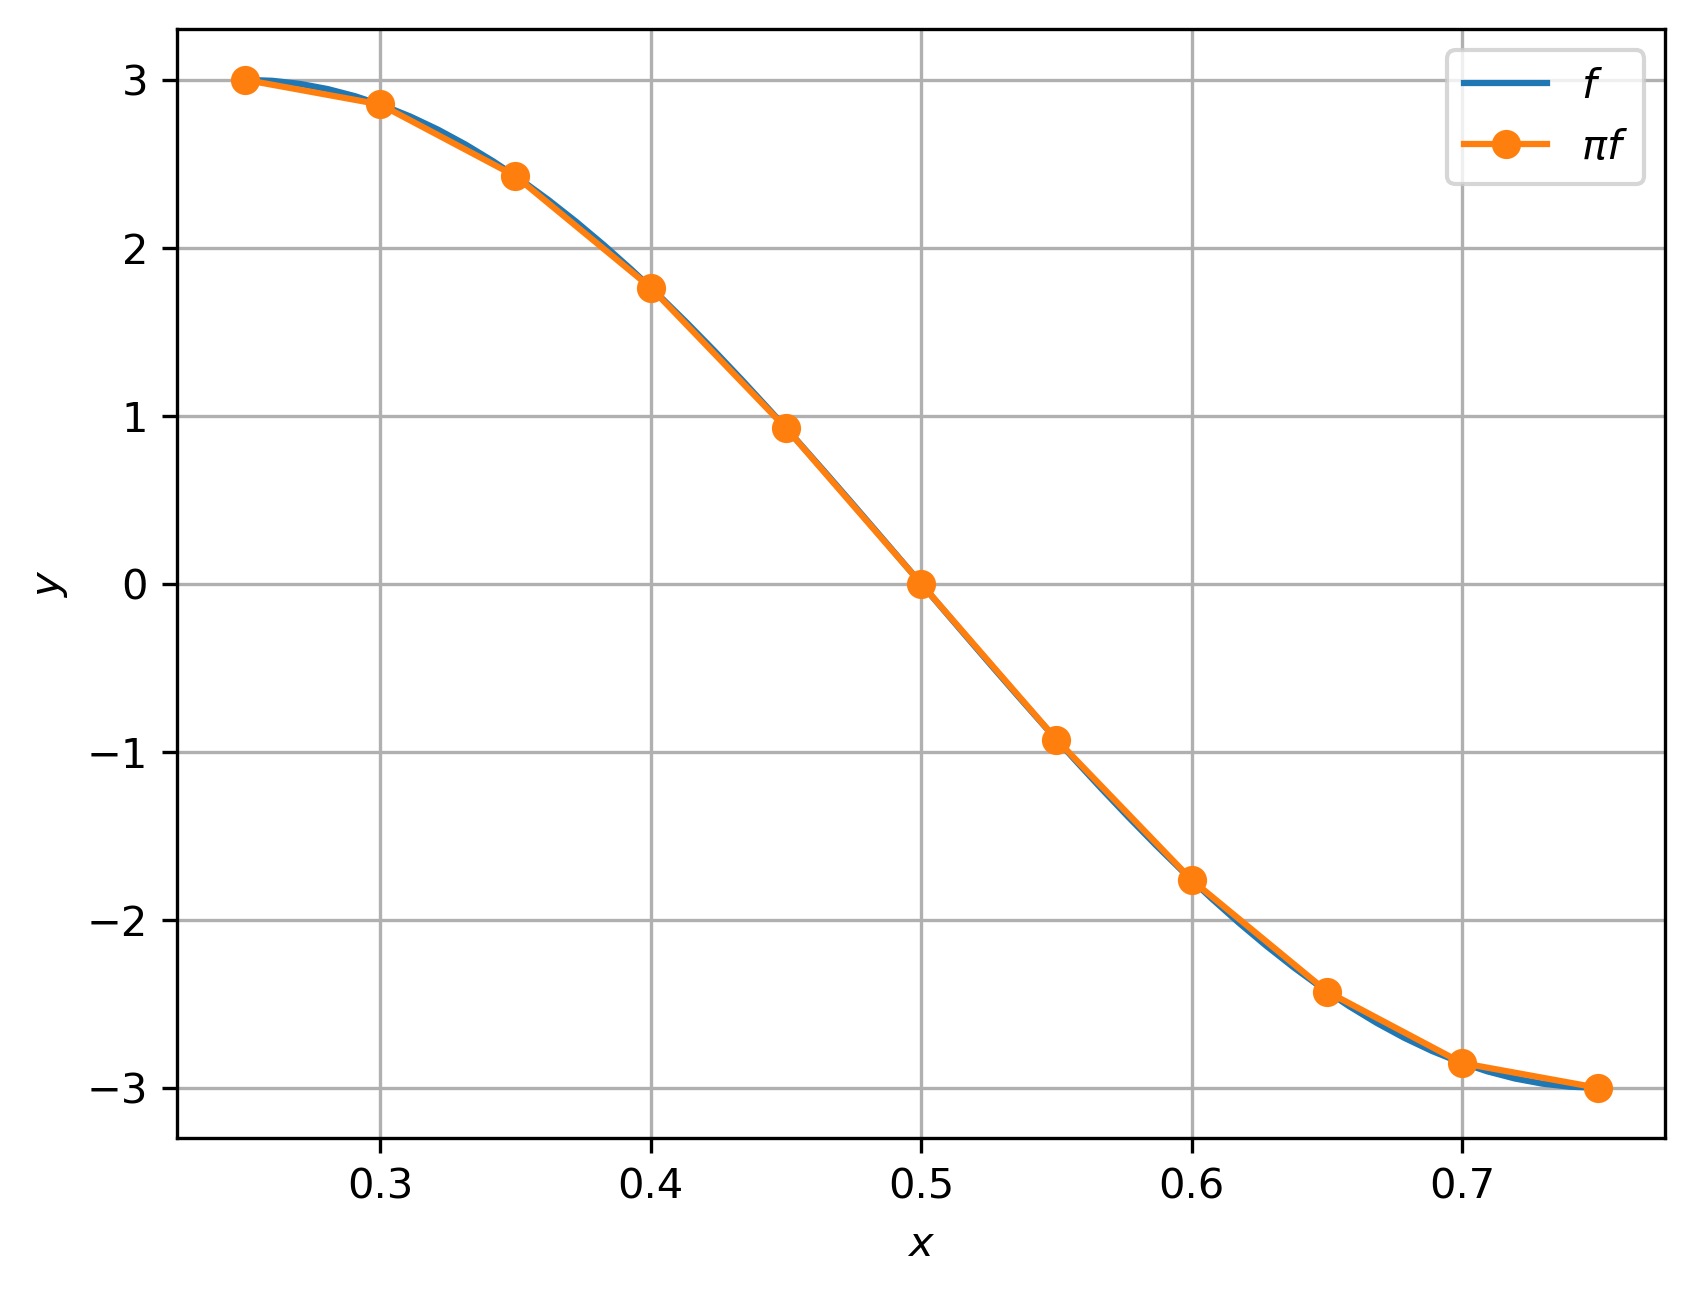
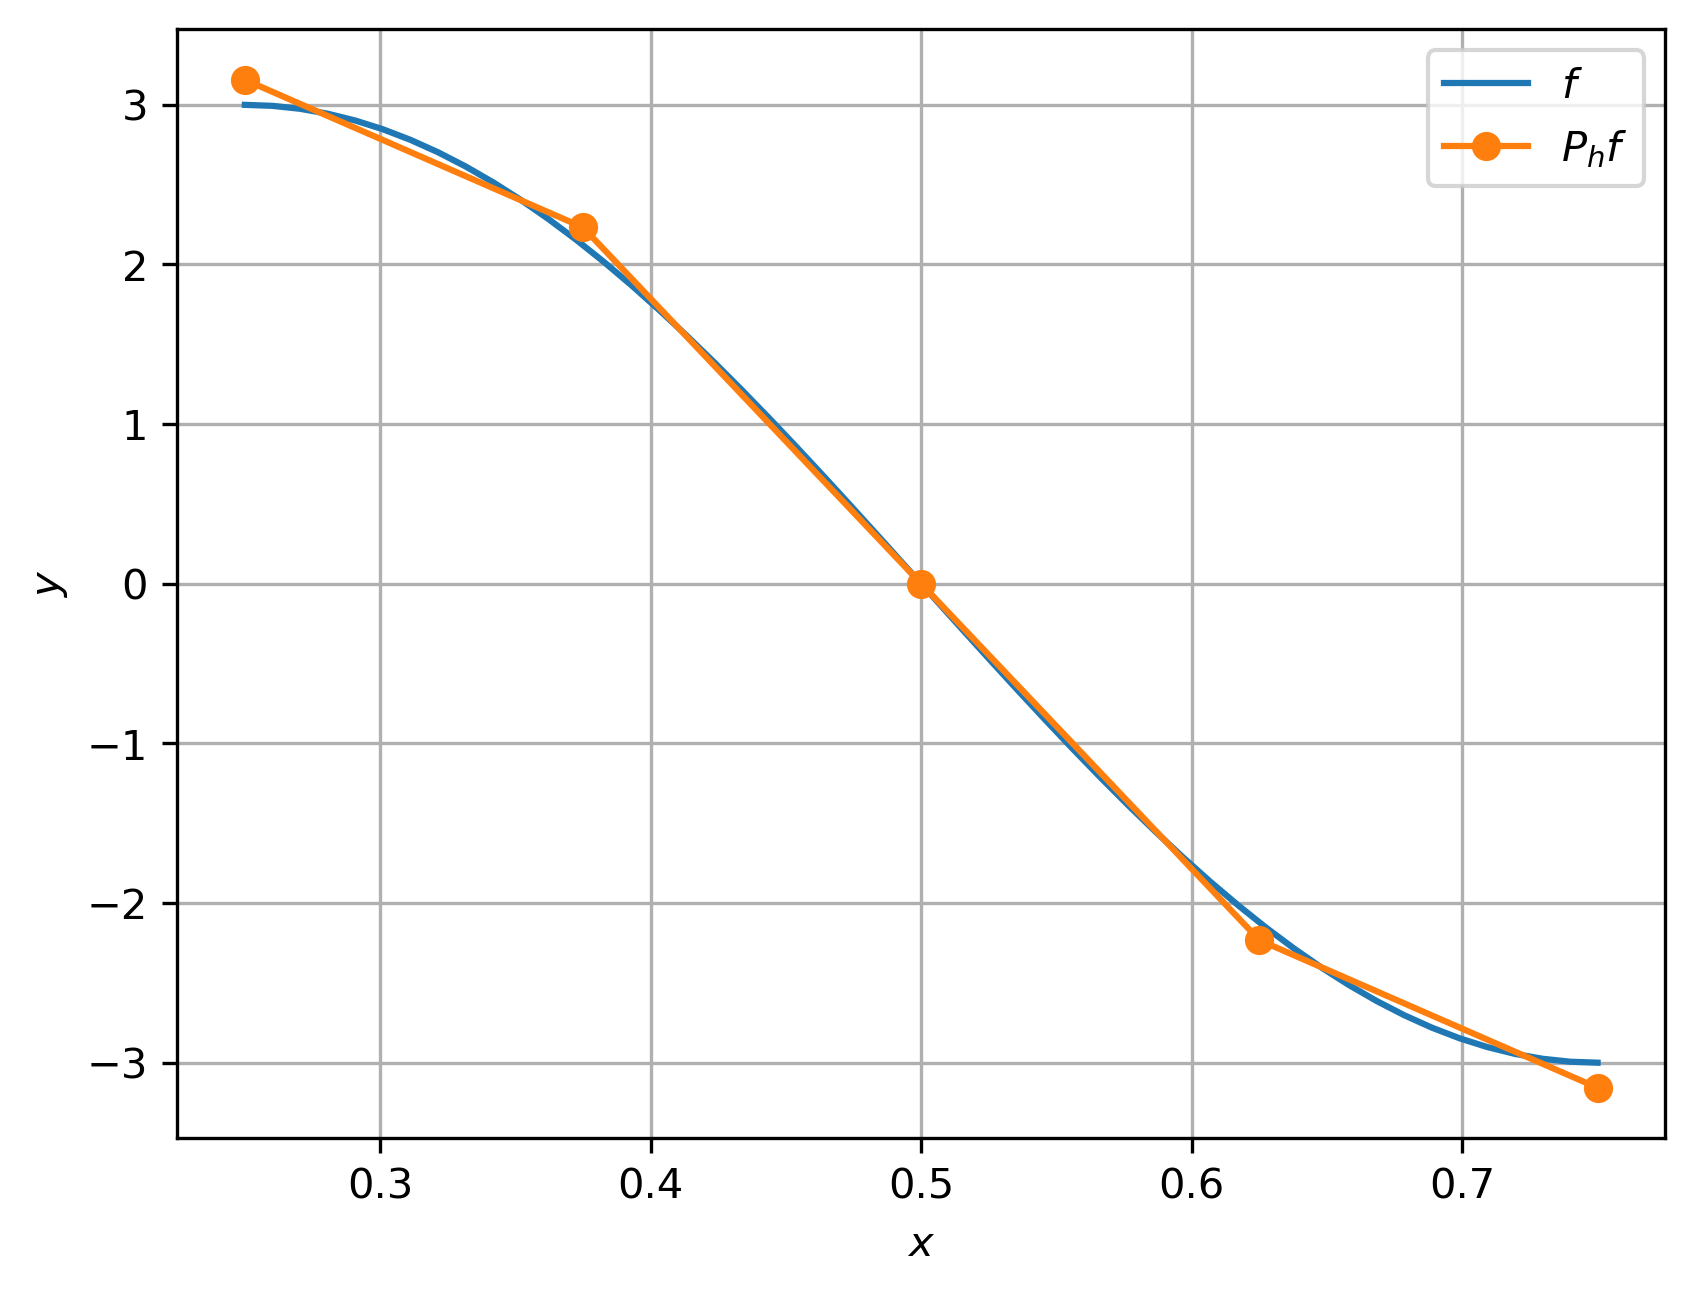
RNA: revisão e extensão do material sobre diferenciação automática

diff --git a/src/RedesNeuraisArtificiais/cap_mlp/cap_mlp.tex b/src/RedesNeuraisArtificiais/cap_mlp/cap_mlp.tex
@@ -770,15 +770,15 @@ d2ydx2 = torch.autograd.grad(
 \end{ex}
 
 
-Uma RNA é uma composição de funções definidas por parâmetros (pesos e \textit{biases}). O treinamento de uma RNA ocorre em duas etapas\footnote{Para mais detalhes, consulte a Subseção \ref{cap_mlp_sec_modelo:ssec:treinamento}.}:
+\subsection{Autograd MLP}
+
+\hl{Os conceitos de diferenciação automática (\emph{autograd}) são diretamente estendidos para redes do tipo Perceptron Multicamadas (MLP, do inglês, \textit{Multilayer Perceptron})}. Uma MLP é uma composição de funções definidas por parâmetros (pesos e \textit{biases}). Seu treinamento ocorre em duas etapas\footnote{Para mais detalhes, consulte a Subseção \ref{cap_mlp_sec_modelo:ssec:treinamento}.}:
 \begin{enumerate}[1.]
 \item \hl{\emph{Propagação (\textit{forward})}}: os dados de entrada são propagados para todas as funções da rede, produzindo a saída estimada.
 \item \hl{\emph{Retropropagação (\textit{backward})}}: a computação do gradiente do erro\footnote{Medida da diferença entre o valor estimado e o valor esperado.} em relação aos parâmetros da rede é realizado coletando as derivadas (gradientes) das funções da rede. Pela regra da cadeia, essa coleta é feita a partir da camada de saída em direção a camada de entrada da rede.
 \end{enumerate}
 
-\subsection{Autograd MLP}
-
-Os conceitos de diferenciação automática (\emph{autograd}) são diretamente estendidos para redes do tipo Perceptron Multicamadas (MLP, do inglês, \textit{Multilayer Perceptron}). No seguinte exemplo, exploramos o fato de MLPs serem aproximadoras universais e avaliamos a derivada de uma MLP na aproximação de uma função.
+No seguinte exemplo, exploramos o fato de MLPs serem aproximadoras universais e avaliamos a derivada de uma MLP na aproximação de uma função.
 
 \begin{ex}\label{ex_mlp_autograd_apfun1d}
   Vamos criar uma MLP
@@ -881,4 +881,68 @@ dydx = autograd.grad(
 \end{ex}
 
 \subsection{Exercícios}
-[[tag:construcao]]
+
+\begin{exer}\label{exer:mlp_autograd_f1d}
+  Por diferenciação automática, compute o gradiente (a derivada) das seguintes funções
+  \begin{enumerate}[a)]
+  \item $\displaystyle f(x) = x^2 - 2x + 1$ para valores $x\in [-2, 2]$.
+  \item $\displaystyle g(x) = \cos^2(x)$ para valores $x\in [0, 2\pi]$.
+  \item $\displaystyle h(x) = \ln(x-1)$ para valores $x\in (-1, 2]$.
+  \item $\displaystyle u(t) = e^{-t^2}\sen(t)$ para valores $t\in [-\pi, \pi]$.
+  \end{enumerate}
+  Em cada caso, compare os valores computados com os valores esperados.
+\end{exer}
+
+\begin{exer}
+  Em cada item do Exercício~\ref{exer:mlp_autograd_f1d}, faça um fluxograma dos grafos computacionais da propagação e da retropropagação na computação dos gradientes.
+\end{exer}
+
+\begin{exer}
+  Em cada item do Exercício~\ref{exer:mlp_autograd_f1d}, compute a derivada de segunda ordem da função indicada. Compare os valores computados com os valores esperados.
+\end{exer}
+
+\begin{exer}
+  Por diferenciação automática, compute os gradientes das seguintes funções:
+  \begin{enumerate}[a)]
+  \item $\displaystyle f(x,y) = x^2 + y^2$ para valores $(x,y)\in [-1, 1]^2$.
+  \item $\displaystyle g(x,y) = e^{x}\sen(xy)$ para valores $(x,y)\in (-1, 2)\times(0, \pi)$.
+  \end{enumerate}
+  Em cada caso, compare os valores computados com os valores esperados.  
+\end{exer}
+
+\begin{exer}\label{exer:mlp_autograd_f2d}
+  Para as funções de cada item do Exercício~\ref{exer:mlp_autograd_f2d}, compute:
+  \begin{enumerate}[a)]
+  \item $\displaystyle\frac{\p^2}{\p x^2}$.
+  \item $\displaystyle\frac{\p^2}{\p x\p y}$.
+  \item $\displaystyle\frac{\p^2}{\p y^2}$.
+  \end{enumerate}
+  Compare os valores computados com os valores esperados.
+\end{exer}
+
+\begin{exer}\label{exer:mlp_autograd_f2d}
+  Em cada item do Exercício~\ref{exer:mlp_autograd_f2d}, compute o laplacino $\Delta = \left(\frac{\p^2}{\p x^2} + \frac{\p^2}{\p y^2}\right)$ da função indicada. Compare os valores computados com os valores esperados.
+\end{exer}
+
+\begin{exer}
+  Seja a função $\pmb{f}:\mathbb{R}^2\to\mathbb{R}^2$ definida por
+  \begin{equation}
+    \pmb{f}(x,y) =
+    \begin{bmatrix}
+      xy^2 - x^2y + 6\\
+      x + x^2y^3 - 7
+    \end{bmatrix}
+  \end{equation}
+  no domínio $\mathcal{D} = [-1, 2]\times [1, 3]$.
+  Por diferenciação automática e para valores no domínio da função, compute:
+  \begin{enumerate}[a)]
+  \item $\displaystyle\nabla f_1(x,y)$.
+  \item $\displaystyle\nabla f_2(x,y)$.
+  \item $\displaystyle\frac{\p^2 f_1}{\p x^2}$.
+  \item $\displaystyle\frac{\p^2 f_1}{\p x\p y}$.
+  \item $\displaystyle\frac{\p^2 f_1}{\p y^2}$.
+  \item $\displaystyle\frac{\p^2 f_2}{\p x^2}$.
+  \item $\displaystyle\frac{\p^2 f_2}{\p x\p y}$.
+  \item $\displaystyle\frac{\p^2 f_2}{\p y^2}$.
+  \end{enumerate}
+\end{exer}

diff --git a/src/MetodoElementosFinitos/cap_mef1d/codigos/project.py b/src/MetodoElementosFinitos/cap_mef1d/codigos/project.py
@@ -7,32 +7,34 @@ from mpi4py import MPI
 
 # malha
 msh = mesh.create_interval(MPI.COMM_WORLD,
-                           nx=10,
+                           nx=4,
                            points=[0.25, 0.75])
 
 # espaço
 V = fem.functionspace(msh, ("P", 1))
 
-# fun
-pif = fem.Function(V)
-f = lambda x: 3.*np.sin(2.*np.pi*x[0])
-pif.interpolate(f)
+
+# pif = fem.Function(V)
+# f = lambda x: 3.*np.sin(2.*np.pi*x[0])
+# pif.interpolate(f)
+
+x = ufl.SpatialCoordinate(msh)
+f = 3.*ufl.sin(2.*ufl.pi*x[0])
 
 # project f
 u = ufl.TrialFunction(V)
 v = ufl.TestFunction(V)
 a =  ufl.dot(u, v) * ufl.dx
-L = ufl.dot(pif, v) * ufl.dx
+L = ufl.dot(f, v) * ufl.dx
 problem = LinearProblem(a, L, bcs=[])
 fh = problem.solve()
 
 # gráfico
-# grafico
 fig = plt.figure(dpi=300)
 ax = fig.add_subplot()
 xx = np.linspace(0.25, 0.75)
 ax.plot(xx, 3.*np.sin(2.*np.pi*xx), label="$f$")
-ax.plot(msh.geometry.x[:,0:1], pif.x.array.real, marker="o", label="$\pi f$")
+ax.plot(msh.geometry.x[:,0:1], fh.x.array, marker="o", label="$P_hf$")
 ax.grid()
 ax.set_xlabel("$x$")
 ax.set_ylabel("$y$")

diff --git a/src/MetodoElementosFinitos/cap_mef1d/dados/ex_esterro_interp_lin/main.py b/src/MetodoElementosFinitos/cap_mef1d/dados/ex_esterro_interp_lin/main.py
@@ -34,6 +34,7 @@ def fem_fun_eval(x, f, msh):
 
   points_on_proc = np.array(points_on_proc, dtype=np.float64)
   f_values = f.eval(points_on_proc, cells)
+  print(f_values)
   return f_values.reshape(-1)
 
 n=5
